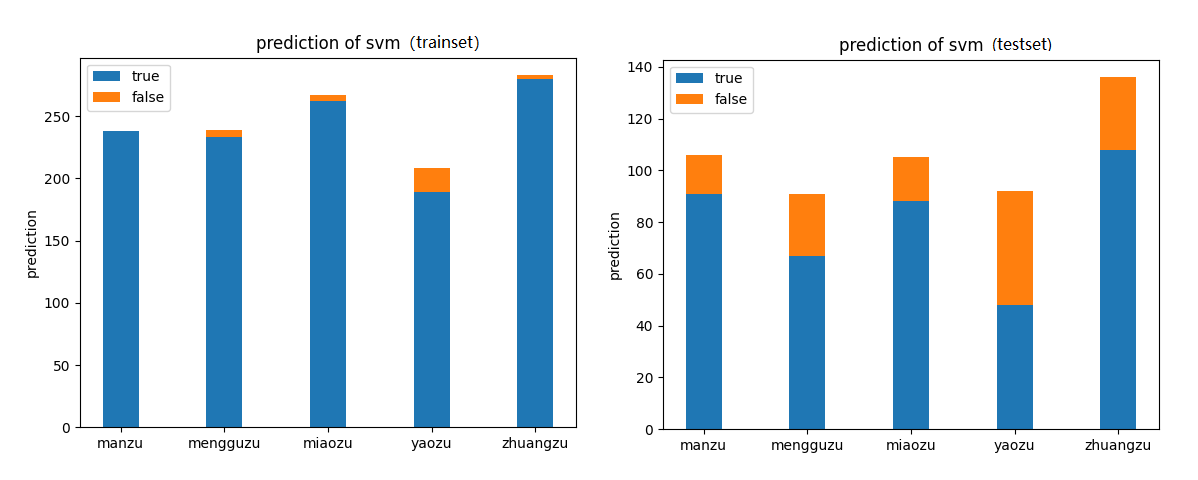
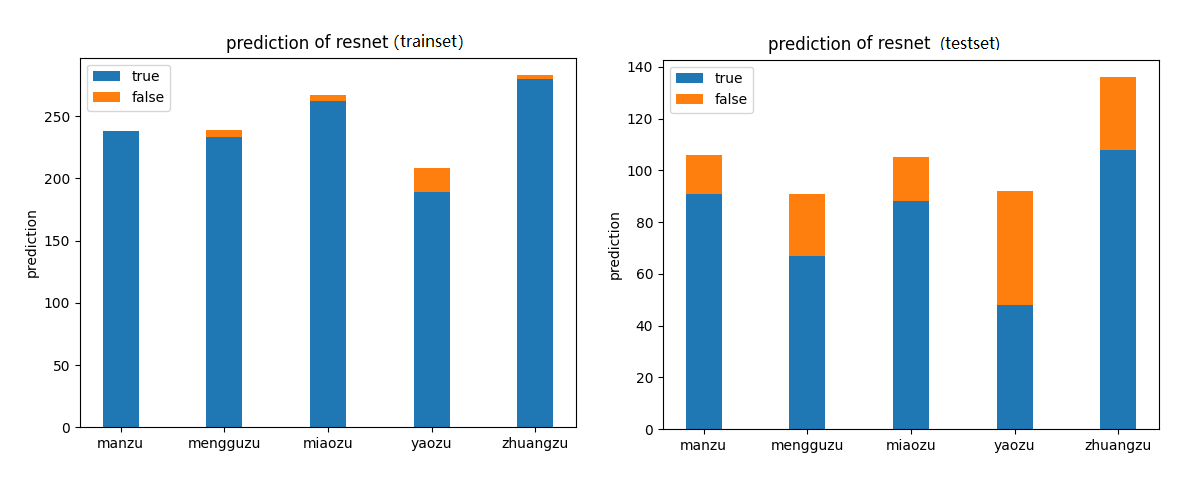
添加注释

Changed region(s): [[0.6486, 0.0625, 0.8957, 0.125], [0.1853, 0.0625, 0.4015, 0.125]]

diff --git a/augment.py b/augment.py
@@ -5,11 +5,46 @@ import numpy as np
 import tqdm
 
 
+# 对训练集进行数据增强操作
+def generate_augment_images(trainsetDir, n=5):
+    """
+    trainsetDir: 训练集路径
+    n: 每张图像进行增强的次数
+    """
+    augmenter = Augmenter()
+    folders = os.listdir(trainsetDir)
+    for folder in folders:
+        folderDir = os.path.join(trainsetDir, folder)
+        imagenames = os.listdir(folderDir)
+        for imagename in tqdm.tqdm(imagenames):
+            imagepath = os.path.join(folderDir, imagename)
+            filename, suffix = imagename.split('.')
+            image = cv2.imread(imagepath)
+            for i in range(n):
+                augmentImage = augmenter(image)
+                cv2.imwrite(os.path.join(folderDir, f'{filename}_{i}.{suffix}'), augmentImage)
+
+
+# 清除增强的图像数据，即将上面增强处理获得的图像自动批量删除
+def clean_augment_images(trainsetDir):
+    folders = os.listdir(trainsetDir)
+    for folder in folders:
+        folderDir = os.path.join(trainsetDir, folder)
+        imagenames = os.listdir(folderDir)
+        for imagename in imagenames:
+            if imagename.split('.')[0].endswith(('_0', '_1', '_2', '_3', '_4')):
+                os.remove(os.path.join(folderDir, imagename))
+
+
+
+# 数据增强器
 class Augmenter(object):
     def __init__(self):
+        # 可用的增强方法
         self.augmenters = [random_crop, random_flip, random_rotate, random_shelter]
 
     def __call__(self, image):
+        # 随机对输入图像使用提供的增强方法进行多种组合增强
         n = random.randint(1, 4)
         augs = []
         for _ in range(n):
@@ -20,7 +55,7 @@ class Augmenter(object):
         return image
 
 
-
+# 随机裁剪
 def random_crop(image, randomScale=True):
     scale = random.randint(5, 9) / 10 if randomScale else 0.6
     H, W = image.shape[:2]
@@ -32,10 +67,13 @@ def random_crop(image, randomScale=True):
     return out
 
 
+# 随机进行翻转
 def random_flip(image):
     image = image[:, ::-1, :]
     return image
 
+
+# 随机旋转
 def random_rotate(image):
     h, w = image.shape[:2]
     center = (w // 2, h // 2)
@@ -45,6 +83,8 @@ def random_rotate(image):
     rotated = cv2.warpAffine(image, M, (w, h))
     return rotated
 
+
+# 随机噪声（比较耗时）
 def random_noise(image):
     def clamp(pv):
         if pv > 255:
@@ -68,6 +108,8 @@ def random_noise(image):
             image[row, col, 2] = clamp(r + s[2])
     return image
 
+
+# 随机遮挡
 def random_shelter(image):
     h, w = image.shape[:2]
     vmin, vmax = int(min(h, w) * 0.1), int(min(h, w) * 0.2)
@@ -92,33 +134,15 @@ def random_shelter(image):
     return image
 
 
-def generate_augment_images(trainsetDir, n=5):
-    augmenter = Augmenter()
-    folders = os.listdir(trainsetDir)
-    for folder in folders:
-        folderDir = os.path.join(trainsetDir, folder)
-        imagenames = os.listdir(folderDir)
-        for imagename in tqdm.tqdm(imagenames):
-            imagepath = os.path.join(folderDir, imagename)
-            filename, suffix = imagename.split('.')
-            image = cv2.imread(imagepath)
-            for i in range(n):
-                augmentImage = augmenter(image)
-                cv2.imwrite(os.path.join(folderDir, f'{filename}_{i}.{suffix}'), augmentImage)
 
 
-def clean_augment_images(trainsetDir):
-    folders = os.listdir(trainsetDir)
-    for folder in folders:
-        folderDir = os.path.join(trainsetDir, folder)
-        imagenames = os.listdir(folderDir)
-        for imagename in imagenames:
-            if imagename.split('.')[0].endswith(('_0', '_1', '_2', '_3', '_4')):
-                os.remove(os.path.join(folderDir, imagename))
 
 
 if __name__ == '__main__':
     pass
+    # 对训练集进行数据增强操作
     # generate_augment_images(trainsetDir='datasets/trainset', n=4)
+
+    # 清除增强的图像数据，即将上面增强处理获得的图像自动批量删除
     # clean_augment_images(trainsetDir='datasets/trainset')
 

diff --git a/train.py b/train.py
@@ -9,11 +9,15 @@ from dataset import create_dataset
 from resnet_config import *
 
 # 训练函数接口
+# logName：训练名称用来对不同的训练进行区分
+# pretrain: 相同的训练名称，相同的配置参数， 加载已有的训练权重继续训练
 def train(logName, savefig=True, pretrain=False):
+    # 1.根据训练名称以及配置文件中的学习率等参数，设置并创建训练记录保存路径
     logName += '-' + str(LEARNING_RATE) + '-batch-' + str(BATCHSIZE)
     logDir = os.path.join('./log', logName)
     checkpointDir = os.path.join(logDir, 'checkpoint')
-
+    
+    # 2.加载已有的训练模型或创建新模型
     if not pretrain: 
         if os.path.exists(logDir):shutil.rmtree(logDir)
         os.mkdir(logDir)
@@ -21,13 +25,16 @@ def train(logName, savefig=True, pretrain=False):
         model = create_model(classNums=CLASSNUMS, flag=MODEL_FLAG)
     else:
         model = tf.keras.models.load_model(checkpointDir)
-
+    
+    # 3.设置优化器，使用Adam优化器，并加载配置文件中的学习率参数
     opt = tf.keras.optimizers.Adam(learning_rate=LEARNING_RATE)
-
+    
+    # 4.配置模型训练
     model.compile(optimizer=opt,
                   loss='sparse_categorical_crossentropy',
                   metrics=['accuracy'])
-
+    
+    # 5. 配置权重保存方式（保存验证集分数最高的模型）
     checkpoint = tf.keras.callbacks.ModelCheckpoint(filepath=checkpointDir,
                                                     monitor='val_accuracy',
                                                     verbose=1,
@@ -35,16 +42,18 @@ def train(logName, savefig=True, pretrain=False):
                                                     save_best_only=True,
                                                     mode='max',
                                                     period=1)
-
+    # 6.设置并加载训练数据集与验证数据集
     inputSize = (224, 224) if MODEL_FLAG == 0 else INPUTSIZE
     trainset, valset = create_dataset('./datasets', inputSize=inputSize, batchSize=BATCHSIZE, normaliz=True, preprocess=True)
     
+    # 7.执行训练
     history = model.fit(trainset,
                         validation_data=valset,
                         epochs=EPOCHES,
                         shuffle=True,
                         callbacks=[checkpoint]
                         )
+    # 8.保存训练过程中的损失和精度信息
     save_history(history, logName, savefig=savefig, pretrain=pretrain)
     
 
@@ -70,13 +79,14 @@ def save_history(history, logName, savefig=True, pretrain=False):
         val_acc = old_val_acc + val_acc
         loss = old_loss + loss
         val_loss = old_val_loss + val_loss
-    
+    # 保存训练中的精度数据和损失数据到本地文件
     epoch = 1
     with open(os.path.join(logDir, 'history.csv'), 'w') as f:
         f.write('epoch,loss,accuracy,val_loss,val_accuracy\n')
         for tloss, tacc, vloss, vacc in zip(loss, acc, val_loss, val_acc):
             f.write(f'{epoch},{tloss},{tacc},{vloss},{vacc}\n')
             epoch += 1
+    # 绘制训练过程中的精度图与损失图
     if savefig:
         epochs_range = range(len(loss))
         plt.figure(figsize=(8, 8))
@@ -96,6 +106,11 @@ def save_history(history, logName, savefig=True, pretrain=False):
 
 if __name__ == '__main__':
     pass
+    # 对原版resnet进行训练
     # train('resnet-origin')
+
+    # 对原版resnet使用dropout进行训练
     # train('resnet-origin-dropout')
+
+    # 对调整后的resnet进行训练
     # train('resnet-alter')

diff --git a/predict.py b/predict.py
@@ -7,19 +7,24 @@ from tensorflow import keras
 import matplotlib.pyplot as plt
 
 
-
+# 加载模型权重创建预测器
 class Predictor:
     def __init__(self, checkpoint, inputSize, layernames=None):
+        """
+        checkpoint: 模型权重保存路径
+        inputSize: 模型输入尺寸
+        layernames: 用于绘制卷积层特征的卷积层名称列表
+        """
         self.model = tf.keras.models.load_model(checkpoint)
         self.inputSize = inputSize
         self.catemap = {0: 'manzu', 1: 'mengguzu', 2: 'miaozu', 3: 'yaozu', 4: 'zhuangzu'}
         
         self.layernames = layernames
         if layernames is not None:
-            
             outputs = [self.model.get_layer(layername).output for layername in layernames]
             self.featureModel = keras.models.Model(inputs=self.model.input,outputs=outputs)
     
+    # 对给定的图像进行预测，输出预测结果（当toLable为True时输出字符串，否则输出0-4的id）
     def predict(self, image, toLable=True):
         h, w = image.shape[:2]
         if h != self.inputSize[1] or w != self.inputSize[0]:
@@ -27,7 +32,8 @@ class Predictor:
         image = cv2.cvtColor(image, cv2.COLOR_BGR2RGB)
         predictions = self.model.predict(np.array([image], dtype=np.float) / 255.0)
         return self.catemap[np.argmax(predictions[0])] if toLable else np.argmax(predictions[0])
-
+    
+    # 绘制卷积特征图
     def draw_features(self, image, saveDir, nw=8, nh=8):
         assert self.layernames is not None
         h, w = image.shape[:2]
@@ -53,30 +59,3 @@ class Predictor:
             savePath = os.path.join(saveDir, f'{layername}.png')
             plt.savefig(savePath)
             cv2.imwrite(os.path.join(saveDir, 'input_image.jpg'), cv2.cvtColor(image, cv2.COLOR_RGB2BGR))
-
-
-
-if __name__ == '__main__':
-    catemap = {'manzu': 0, 'mengguzu': 1, 'miaozu': 2, 'yaozu': 3, 'zhuangzu': 4}
-    predictor = Predictor(checkpoint='log/resnet-origin-0.001-batch-32/checkpoint', 
-                          inputSize=(224, 224), 
-                          layernames=['conv1_conv2', 'conv2_conv2', 'conv4_block2_conv3'])
-    
-    datasetDir = './datasets/trainset'
-    folders = os.listdir(datasetDir)
-    for folder in folders:
-        gt = catemap[folder]
-        folderDir = os.path.join(datasetDir, folder)
-        imagenames = os.listdir(folderDir)
-        for imagename in imagenames:
-            image = cv2.imread(os.path.join(folderDir, imagename))
-            
-            pred = predictor.predict(image, toLable=False)
-            print(f'{imagename} gt: {gt}, pred: {pred}')
-    
-    
-
-    
-    
-
-

diff --git a/model.py b/model.py
@@ -3,15 +3,19 @@ from tensorflow.keras.layers import Input, Conv2D, MaxPooling2D, Dropout, Dense,
 
 from resnet_config import *
 
+# 根据配置参数创建原版resnet或调整后的resnet
 def create_model(classNums=5, flag=0):
+    # 创建原版resnet
     if flag == 0:
         model = ResNet50(classNums, dropout=DROPOUT)
+    # 创建调整后的resnet
     else:
-        act = None # tf.nn.leaky_relu
+        # 可以考虑将原版中的relu替换为leaky_relu，（没有进行测试）
+        act = None # tf.nn.leaky_relu 
         model = MyResNet50(classNums=classNums, inputSize=INPUTSIZE, act=act, dropout=DROPOUT)
     return model
 
-# 原版resnet
+# 原版resnet50
 def ResNet50(classNums, dropout=0.0):
     layers_dims=[3,4,6,3]
     
@@ -42,7 +46,7 @@ def ResNet50(classNums, dropout=0.0):
     return model
 
 
-# 调整后的resnet
+# 调整后的resnet50
 def MyResNet50(classNums, inputSize=(224, 224), act=None, dropout=0.0):
     
     layers_dims=[3,4,6,3]
@@ -50,10 +54,11 @@ def MyResNet50(classNums, inputSize=(224, 224), act=None, dropout=0.0):
     filter_block1=[64, 64, 256]
     filter_block2=[128,128,512]
     filter_block3=[256,256,1024]
+    # 调整2：将resnet最后一个block的每个输出通道由2048减少到1024（减少了模型参数，减轻过拟合）。
     filter_block4=[512,512,1024]
 
     if act is None: act = 'relu'
-
+    # 调整1：将原版中固定的模型输入尺寸，调整为支持自定义尺寸（inputSize：（w,h））
     input = Input(shape=(inputSize[1], inputSize[0], 3))
     # stem block 
     x = Conv2D(64, (7,7), strides=(2,2),padding='same', name='stem_conv')(input)

diff --git a/dataset.py b/dataset.py
@@ -3,8 +3,15 @@ import random
 import tensorflow as tf
 from tensorflow.keras import layers
 
-
+# 创建数据集用于模型的训练与评估
 def create_dataset(datasetDir, inputSize=(224, 224), batchSize=8, normaliz=False, preprocess=None):
+    """
+    datasetDir: 数据集的路径，默认为'./datasets'
+    inputSize: 模型输入尺寸（w，h）
+    batchSize: 模型的训练中一个batch的大小
+    normaliz: 是否对图像进行归一化处理，训练中默认开启
+    preprocess: 是否对图像进行预处理操作，训练中默认开启
+    """
     trainset = tf.keras.preprocessing.image_dataset_from_directory(os.path.join(datasetDir, 'trainset'),
                                                             labels='inferred',
                                                             label_mode='int',
@@ -31,6 +38,7 @@ def create_dataset(datasetDir, inputSize=(224, 224), batchSize=8, normaliz=False
     return trainset, valset
 
 
+# 使用tensorflow中的图像预处理功能进行进一步数据增强操作
 def transformer(image):
     selectedId = random.randint(0, 2)
 

diff --git a/tools.py b/tools.py
@@ -167,12 +167,12 @@ if __name__ == '__main__':
     pass
 
     # 运行测试评价，获得混淆矩阵和预测图
-    # run_eval(datasetDir='./datasets', checkpoint='log/resnet-alter-0.0005-batch-32/checkpoint')
+    run_eval(datasetDir='./datasets', checkpoint='log/resnet-alter-0.0005-batch-32/checkpoint')
     
     
     # 绘制卷积特征图
-    draw_convlayer_features(imagepath='datasets/trainset/manzu/0000015.jpg', 
-                            checkpoint='log/resnet-alter-0.0005-batch-32/checkpoint')
+    # draw_convlayer_features(imagepath='datasets/trainset/manzu/0000015.jpg', 
+    #                         checkpoint='log/resnet-alter-0.0005-batch-32/checkpoint')
     
     # 对比不同的训练过程，并绘制损失和准确率曲线
     # draw_diff_loss_acc(logs=[

diff --git a/eval.py b/eval.py
@@ -1,6 +1,6 @@
 from sklearn.metrics import confusion_matrix
 import matplotlib.pyplot as plt
-
+# 本文件与svm部分的eval.py基本相同
 
 def plot_confusion_matrix(preds, gts, savePath, labels=None):
     cm = confusion_matrix(gts, preds)
@@ -36,7 +36,7 @@ def plot_prediction(predDict, savePath):
     ax.bar(labels, false, width, bottom=true, label='false')
 
     ax.set_ylabel('prediction')
-    ax.set_title('prediction of svm')
+    ax.set_title('prediction of resnet')
     ax.legend()
     plt.savefig(savePath)
 

diff --git a/resnet_config.py b/resnet_config.py
@@ -2,6 +2,6 @@ CLASSNUMS = 5              # 分类个数
 MODEL_FLAG = 1             # 0: 使用原始resnet， 1:使用调整后的resnet
 INPUTSIZE = (224, 320)     # 调整后的resnet输入尺寸
 BATCHSIZE = 32             # 训练batch参数
-EPOCHES = 100              # 训练次数
+EPOCHES = 100              # 训练迭代次数
 LEARNING_RATE = 0.0005     # 学习率参数
-DROPOUT = 0.0              # dropout参数
+DROPOUT = 0.0              # dropout参数 大于零时启用dropout，等于零时关闭dropout

diff --git a/split.py b/split.py
@@ -64,4 +64,5 @@ def split_dataset(originDatasetDir, datasetRootDir):
             pass
 
 if __name__ == '__main__':
-    split_dataset(originDatasetDir='./ori/datasets/', datasetRootDir='./datasets')
+    pass
+    # split_dataset(originDatasetDir='./ori/datasets/', datasetRootDir='./datasets')
